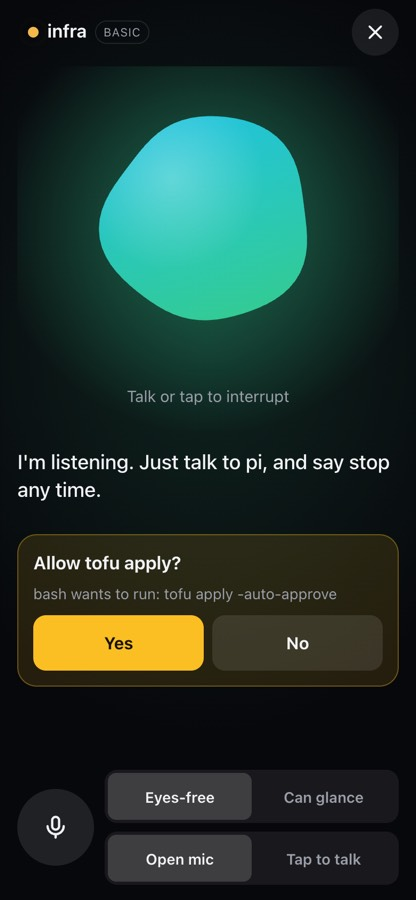
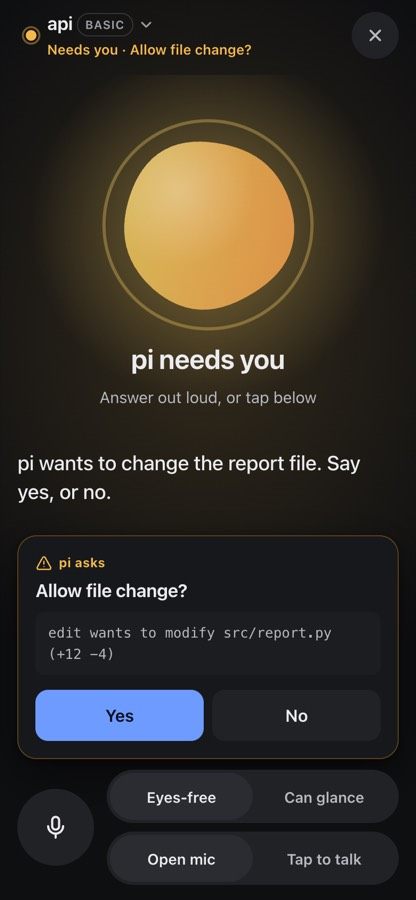
README: screenshots of the current UI, all dark
Claude-Session: https://claude.ai/code/session_01Jgd9xZfdFugpNSLy9GTK31

diff --git a/README.md b/README.md
@@ -7,7 +7,7 @@ No server to install, no account, no third-party relay, no app store. It all run
 <p>
 <img src="docs/img/04-transcript.jpg" width="260" alt="A pi session on the phone: tool steps as quiet rows, the reply in readable markdown, another session's question as a bar at the top">
 <img src="docs/img/08-confirm.jpg" width="260" alt="pi asks permission to change a file; large Yes and No buttons above the composer">
-<img src="docs/img/15-voice.jpg" width="260" alt="Voice mode: a large animated orb, and pi's permission question with big answer buttons">
+<img src="docs/img/15-voice.jpg" width="260" alt="Voice mode while pi needs you: an amber orb, the spoken question as a caption, and big answer buttons">
 </p>
 
 ## What you get
